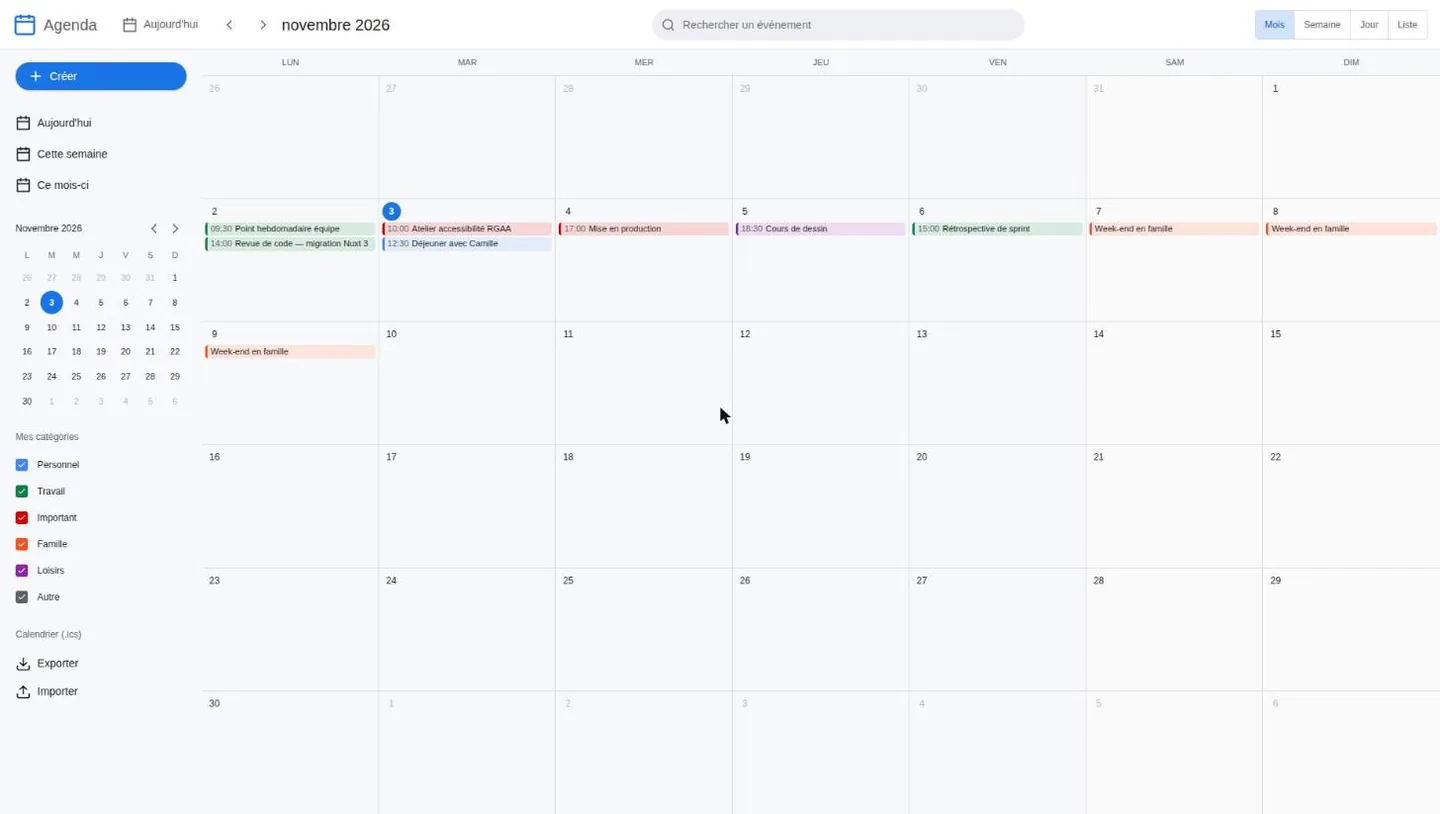
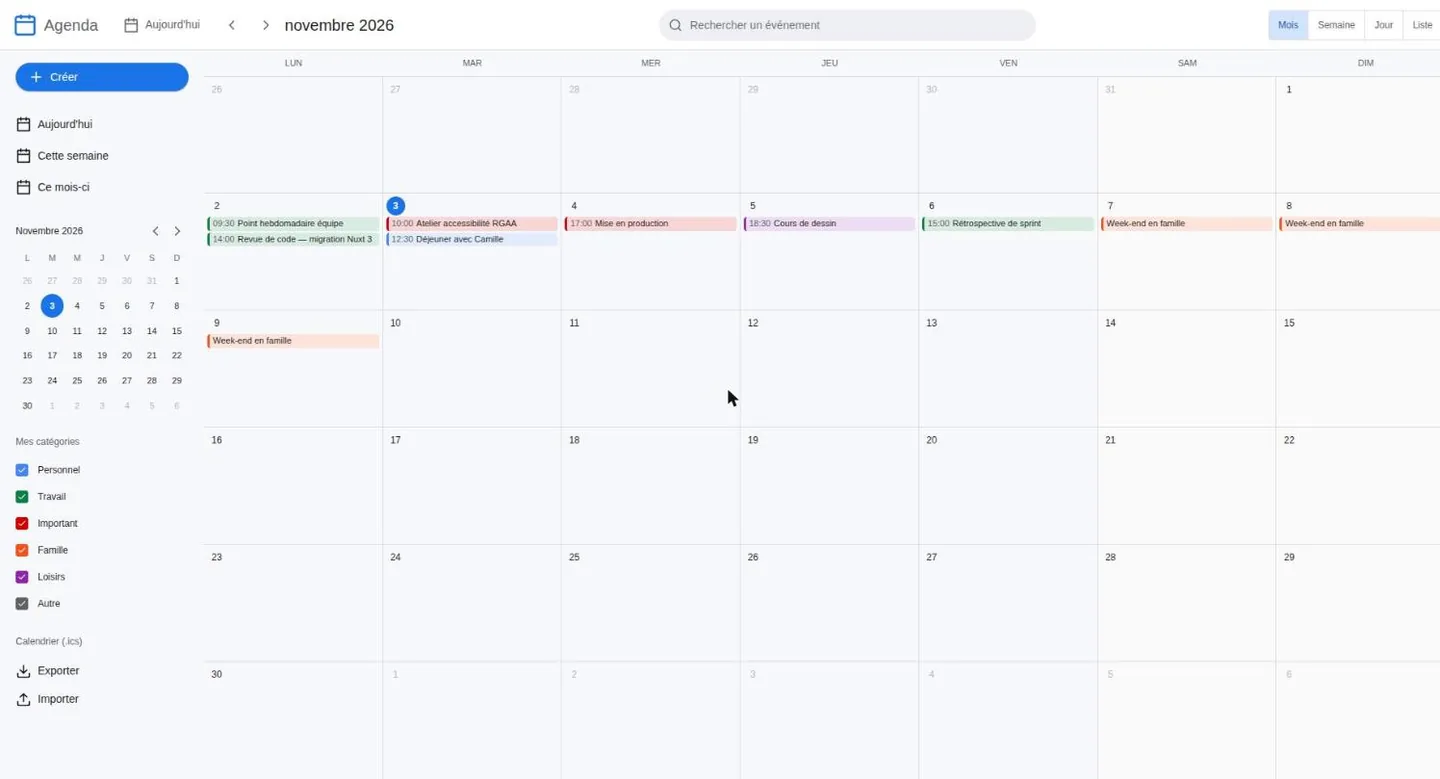
feat(projets): les deux listes du Japon, recadrées sans barre de défilement
Remplace la capture d'accueil de Japan Manga Explorer par les deux listes —
mangas et lieux — qui montrent la même grille alimentée par deux sources de
données. Refait la vue mois de l'Agenda.

Les trois captures perdent 16 pixels à droite : la barre de défilement du
navigateur n'appartient pas à l'interface photographiée.

Les événements de démonstration de l'Agenda ont dû être recréés : l'instance
Render gratuite s'endort et repart sur un disque vide, ce qui efface
`backend/data/events.json`. La démo en ligne se videra donc à nouveau.

diff --git a/content/projects.ts b/content/projects.ts
@@ -28,18 +28,18 @@ export const projects: readonly Project[] = [
     ],
     images: [
       {
-        src: '/visuels/japan-manga-explorer/accueil.webp',
-        alt: 'Page d’accueil sombre, titre « Explorez mangas et lieux incontournables du Japon » et quatre couvertures de mangas.',
-        caption: 'Accueil : deux entrées, les mangas ou les lieux.',
-        width: 1440,
-        height: 814,
-      },
-      {
         src: '/visuels/japan-manga-explorer/liste-mangas.webp',
-        alt: 'Liste de mangas en grille de quatre colonnes, avec champ de recherche, note et genres sous chaque couverture.',
+        alt: 'Liste de mangas en grille de quatre colonnes, avec champ de recherche, note sur dix et genres sous chaque couverture.',
         caption: 'Liste des mangas : recherche, note et genres, paginée.',
         width: 1440,
-        height: 770,
+        height: 682,
+      },
+      {
+        src: '/visuels/japan-manga-explorer/lieux.webp',
+        alt: 'Liste de lieux japonais en grille de quatre colonnes : tour de Tokyo, Tokyo Skytree, Sensō-ji, Meiji-jingū, chacun avec sa photo et un début de description.',
+        caption: 'Liste des lieux : même grille, autre source de données.',
+        width: 1440,
+        height: 723,
       },
     ],
     featured: true,
@@ -76,7 +76,7 @@ export const projects: readonly Project[] = [
         alt: 'Vue mensuelle de novembre 2026, événements colorés par catégorie, panneau latéral avec mini-calendrier et filtres.',
         caption: 'Vue mois : les catégories filtrent depuis le panneau latéral.',
         width: 1440,
-        height: 814,
+        height: 779,
       },
       {
         src: '/visuels/agenda-app-event/vue-semaine.webp',
